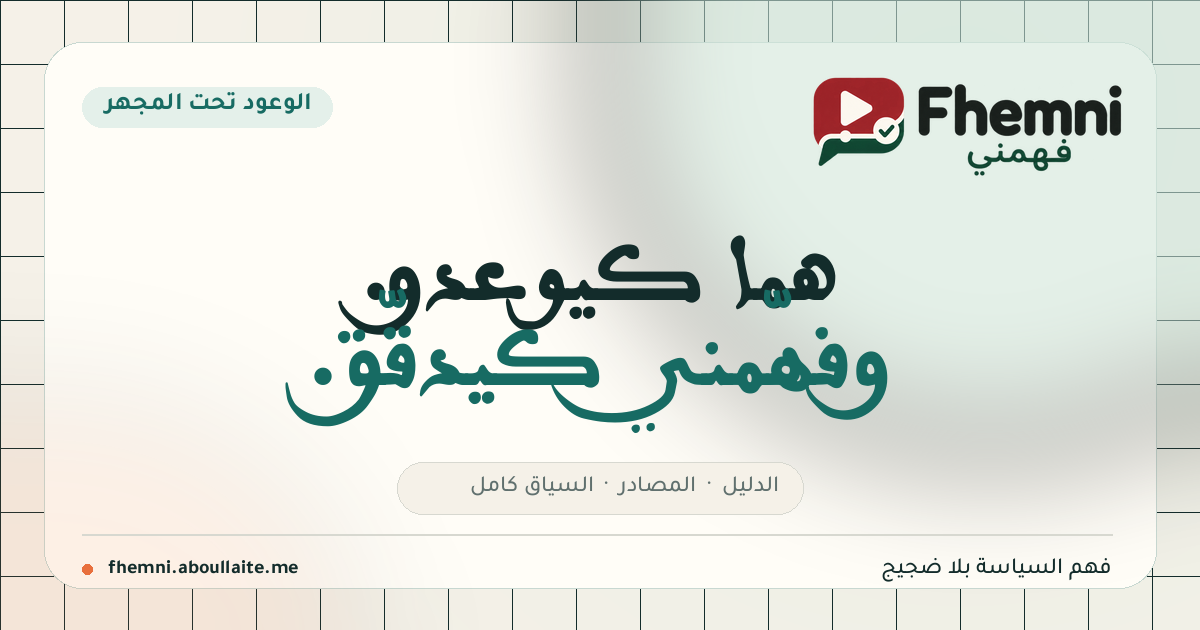
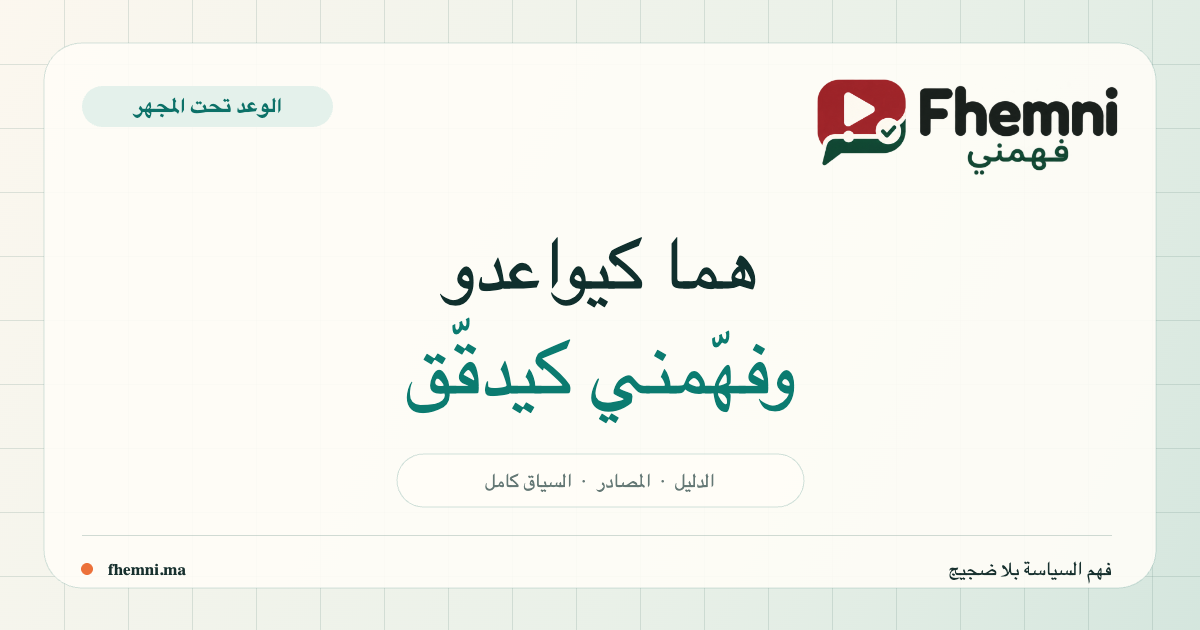
Fix social preview rendering

diff --git a/src/main/resources/static/index.html b/src/main/resources/static/index.html
@@ -15,19 +15,19 @@
     <meta property="og:url" content="https://fhemni.ma/">
     <meta property="og:title" content="فهّمني — دقق فوعود الأحزاب وفهم السياق">
     <meta property="og:description" content="فهّمني كيدقق فوعود الأحزاب ديال انتخابات 2026 والهضرة السياسية بالمصادر، الأدلة، والتوقيتات، باش تفهم الحكم والسياق كامل بلا ضجيج.">
-    <meta property="og:image" content="https://fhemni.ma/assets/social/fhemni-og.png">
-    <meta property="og:image:secure_url" content="https://fhemni.ma/assets/social/fhemni-og.png">
+    <meta property="og:image" content="https://fhemni.ma/assets/social/fhemni-og.png?v=20260910-2">
+    <meta property="og:image:secure_url" content="https://fhemni.ma/assets/social/fhemni-og.png?v=20260910-2">
     <meta property="og:image:type" content="image/png">
     <meta property="og:image:width" content="1200">
     <meta property="og:image:height" content="630">
-    <meta property="og:image:alt" content="شعار فهّمني مع عبارة هما كيوعدو وفهّمني كيدقّق">
+    <meta property="og:image:alt" content="شعار فهّمني مع عبارة هما كيواعدو وفهّمني كيدقّق">
 
     <meta name="twitter:card" content="summary_large_image">
     <meta name="twitter:creator" content="@laytoun">
     <meta name="twitter:title" content="فهّمني — دقق فوعود الأحزاب وفهم السياق">
     <meta name="twitter:description" content="دقق فوعود الأحزاب والهضرة السياسية بالمصادر، الأدلة، والتوقيتات، وفهم السياق كامل.">
-    <meta name="twitter:image" content="https://fhemni.ma/assets/social/fhemni-og.png">
-    <meta name="twitter:image:alt" content="شعار فهّمني مع عبارة هما كيوعدو وفهّمني كيدقّق">
+    <meta name="twitter:image" content="https://fhemni.ma/assets/social/fhemni-og.png?v=20260910-2">
+    <meta name="twitter:image:alt" content="شعار فهّمني مع عبارة هما كيواعدو وفهّمني كيدقّق">
 
     <title>فهّمني — دقق فوعود الأحزاب وفهم السياق</title>
     <link rel="icon" type="image/png" href="/assets/brand/fhemni-icon.png">

diff --git a/src/test/java/dev/maboullaite/fhemni/web/NavigationConsistencyTest.java b/src/test/java/dev/maboullaite/fhemni/web/NavigationConsistencyTest.java
@@ -49,7 +49,8 @@ class NavigationConsistencyTest {
                 .contains("property=\"og:description\"")
                 .contains("property=\"og:site_name\"")
                 .contains("name=\"twitter:card\" content=\"summary_large_image\"")
-                .contains("https://fhemni.ma/assets/social/fhemni-og.png");
+                .contains("https://fhemni.ma/assets/social/fhemni-og.png?v=20260910-2")
+                .doesNotContain("fhemni.aboullaite.me");
 
         var imageResource = new ClassPathResource("static/assets/social/fhemni-og.png");
         var image = ImageIO.read(imageResource.getInputStream());
